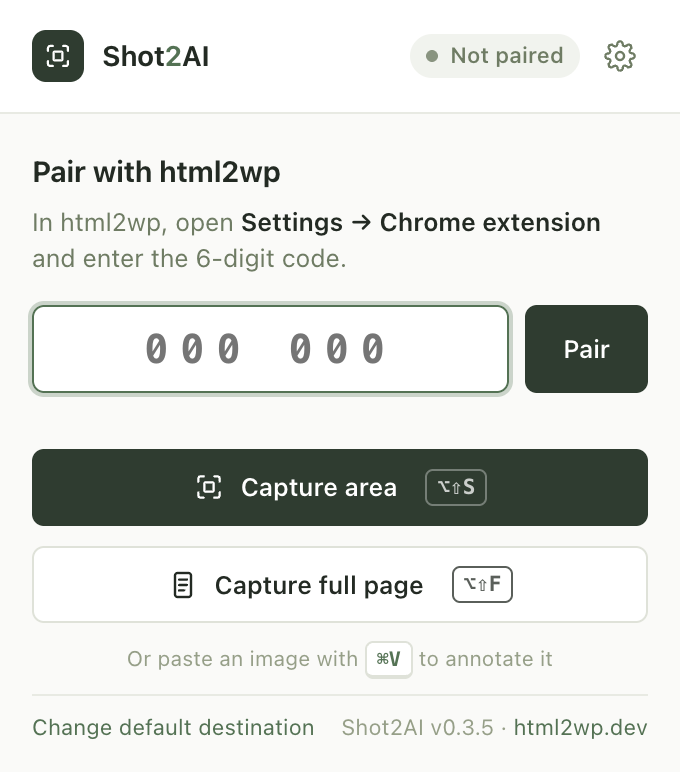
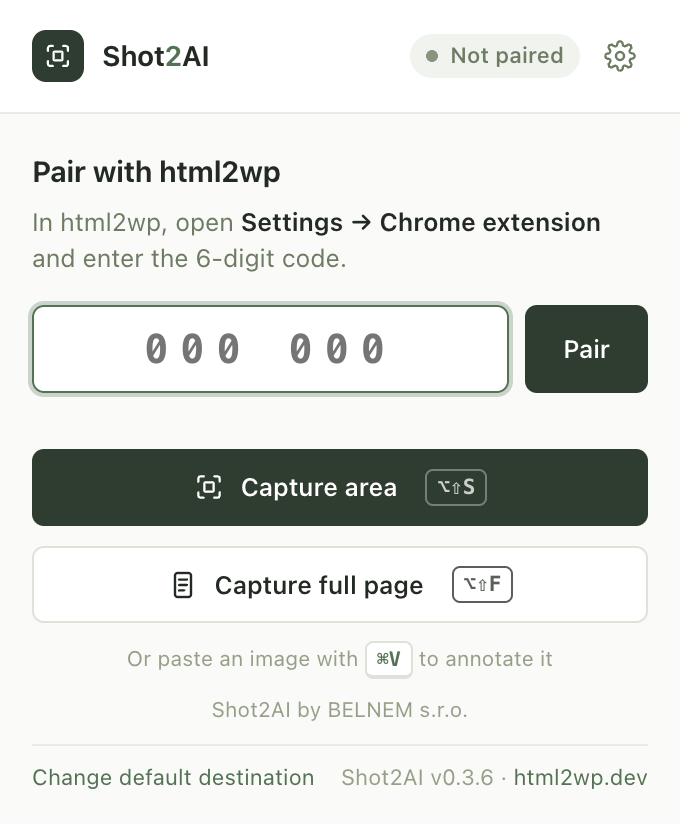
Shot2AI 0.3.6: publisher BELNEM s.r.o. (final)
Reverts c046630 (v0.3.5): the content is v0.3.4's again, with BELNEM
s.r.o. in LICENSE, PRIVACY.md, the privacy page, STORE-LISTING.md, README
and the Options and popup footers.

Claude-Session: https://claude.ai/code/session_01Xf7wTz9XZFZ1GCWzDzHaWW

diff --git a/site/shot2ai/privacy/index.html b/site/shot2ai/privacy/index.html
@@ -31,7 +31,7 @@ footer{margin-top:40px;padding-top:18px;border-top:1px solid var(--line);color:v
 <h1>Shot2AI privacy policy</h1>
 <p>Last updated: 23 September 2026</p>
 <p>This policy is published at <a href="https://html2wp.dev/shot2ai/privacy">https://html2wp.dev/shot2ai/privacy</a>.</p>
-<p>Shot2AI is a Chrome extension that captures part of a web page, lets you mark it up and sends it where you choose. This policy explains what it handles and where that goes.</p>
+<p>Shot2AI is a Chrome extension by BELNEM s.r.o. that captures part of a web page, lets you mark it up and sends it where you choose. This policy explains what it handles and where that goes.</p>
 <h2>What Shot2AI captures</h2>
 <ul><li><strong>Screenshots</strong> of the page you are on, and only when you ask for one: the toolbar button, the keyboard shortcut, the right-click menu, the floating toolbar or the preview card. This includes an area you select, the visible page, a full page, a saved region, or an image on the page.</li><li><strong>The message you type</strong> to go with a screenshot, and the prompts you save.</li><li><strong>Text you have selected</strong>, when you choose "Send selection with a screenshot".</li><li>The <strong>address and title</strong> of the page a screenshot comes from. They are used to label the screenshot and to name saved files.</li></ul>
 <p>Shot2AI reads nothing else from the pages you visit.</p>
@@ -51,9 +51,9 @@ footer{margin-top:40px;padding-top:18px;border-top:1px solid var(--line);color:v
 <p>The use of information received from Chrome APIs will adhere to the Chrome Web Store User Data Policy, including the Limited Use requirements. Shot2AI uses the data it handles only to provide its single purpose: capturing, annotating and sending screenshots where you choose. It does not transfer that data to third parties except to the destination you choose, does not use it for advertising, and does not let people read it except as needed for that purpose, for security, or to comply with law.</p>
 <h2>Trademarks</h2>
 <p>ChatGPT is a trademark of OpenAI. Claude is a trademark of Anthropic. Shot2AI is an independent product and is not affiliated with, endorsed by or sponsored by OpenAI or Anthropic.</p>
-<h2>Contact</h2>
-<p>Filip Dvoran, <a href="mailto:hello@html2wp.dev">hello@html2wp.dev</a></p>
-<footer>Shot2AI is a Chrome extension by Filip Dvoran · <a href="https://html2wp.dev/">html2wp.dev</a></footer>
+<h2>Who is responsible, and contact</h2>
+<p>Shot2AI is made and published by BELNEM s.r.o., Beckovska 5, Bratislava, Slovakia (IČO 53713486), which is responsible for this policy. Contact: <a href="mailto:hello@html2wp.dev">hello@html2wp.dev</a></p>
+<footer>Shot2AI is a Chrome extension by BELNEM s.r.o. · <a href="https://html2wp.dev/">html2wp.dev</a></footer>
 </main>
 </body>
 </html>

diff --git a/src/options.html b/src/options.html
@@ -117,6 +117,7 @@
 </main>
 <footer class="foot">
   <p><span id="version">Shot2AI</span> · <a id="whats-new" href="https://github.com/iOSDevSK/shot2ai/releases" target="_blank" rel="noopener">What's new</a> · <a href="https://html2wp.dev/shot2ai/privacy" target="_blank" rel="noopener">Privacy</a> · <a href="https://html2wp.dev/" target="_blank" rel="noopener">html2wp — convert any website to WordPress</a></p>
+  <p id="publisher" class="disclaimer">Shot2AI is made by BELNEM s.r.o., Beckovska 5, Bratislava, Slovakia · hello@html2wp.dev</p>
   <p id="disclaimer" class="disclaimer">ChatGPT is a trademark of OpenAI. Claude is a trademark of Anthropic. Shot2AI is an independent product and is not affiliated with, endorsed by or sponsored by OpenAI or Anthropic.</p>
 </footer>
 <script type="module" src="options.js"></script>

diff --git a/src/popup.html b/src/popup.html
@@ -50,6 +50,7 @@
     <button id="show-stack" class="button wide" hidden></button>
     <p id="capture-error" class="notice err" role="alert" hidden></p>
     <div class="hint"><span id="paste-hint"></span></div>
+    <p class="publisher">Shot2AI by BELNEM s.r.o.</p>
     <div class="links"><button id="change" class="link" type="button">Change default destination</button><span class="meta-links"><span id="version" class="version"></span> · <a href="https://html2wp.dev/" target="_blank" rel="noopener">html2wp.dev</a></span></div>
   </footer>
 </main>

diff --git a/src/popup.css b/src/popup.css
@@ -32,3 +32,4 @@ body{width:340px;background:var(--canvas)}
 .version{color:var(--faint)}
 .popup-foot .button .key{margin-left:6px;padding:1px 5px;border-radius:4px;font:600 10.5px/1.4 var(--mono);opacity:.75;border:1px solid currentColor}
 .popup-foot .button.primary .key{border-color:rgba(255,255,255,.45)}
+.publisher{margin:0;text-align:center;font-size:10.5px;color:var(--faint)}

diff --git a/scripts/privacy-page.py b/scripts/privacy-page.py
@@ -65,7 +65,7 @@ footer{margin-top:40px;padding-top:18px;border-top:1px solid var(--line);color:v
 <main>
 <div class="brand"><svg viewBox="0 0 32 32" aria-hidden="true"><rect width="32" height="32" rx="7" fill="#16964c"/><path d="M8 13V9.5A1.5 1.5 0 0 1 9.5 8H13M19 8h3.5A1.5 1.5 0 0 1 24 9.5V13M24 19v3.5a1.5 1.5 0 0 1-1.5 1.5H19M13 24H9.5A1.5 1.5 0 0 1 8 22.5V19" fill="none" stroke="#fff" stroke-width="2.6" stroke-linecap="round"/><rect x="13" y="13" width="6" height="6" rx="1.2" fill="#c8f578"/></svg>Shot2AI</div>
 {body}
-<footer>Shot2AI is a Chrome extension by Filip Dvoran · <a href="https://html2wp.dev/">html2wp.dev</a></footer>
+<footer>Shot2AI is a Chrome extension by BELNEM s.r.o. · <a href="https://html2wp.dev/">html2wp.dev</a></footer>
 </main>
 </body>
 </html>

diff --git a/PRIVACY.md b/PRIVACY.md
@@ -4,7 +4,7 @@ Last updated: 23 September 2026
 
 This policy is published at https://html2wp.dev/shot2ai/privacy.
 
-Shot2AI is a Chrome extension that captures part of a web page, lets you mark it up and sends it where you choose. This policy explains what it handles and where that goes.
+Shot2AI is a Chrome extension by BELNEM s.r.o. that captures part of a web page, lets you mark it up and sends it where you choose. This policy explains what it handles and where that goes.
 
 ## What Shot2AI captures
 
@@ -55,6 +55,6 @@ The use of information received from Chrome APIs will adhere to the Chrome Web S
 
 ChatGPT is a trademark of OpenAI. Claude is a trademark of Anthropic. Shot2AI is an independent product and is not affiliated with, endorsed by or sponsored by OpenAI or Anthropic.
 
-## Contact
+## Who is responsible, and contact
 
-Filip Dvoran, hello@html2wp.dev
+Shot2AI is made and published by BELNEM s.r.o., Beckovska 5, Bratislava, Slovakia (IČO 53713486), which is responsible for this policy. Contact: hello@html2wp.dev

diff --git a/README.md b/README.md
@@ -173,7 +173,7 @@ The popup footer, the editor's header, the right-click menu and **Options** show
 
 ## Legal
 
-- `LICENSE`: proprietary, all rights reserved.
+- `LICENSE`: proprietary, all rights reserved, © 2026 BELNEM s.r.o. Shot2AI is a product of BELNEM s.r.o., Beckovska 5, Bratislava, Slovakia (IČO 53713486).
 - `THIRD-PARTY-NOTICES.md`: better-shot (BSD 3-Clause), the only third-party code.
 - `PRIVACY.md`: the privacy policy, published at https://html2wp.dev/shot2ai/privacy (the page is `site/shot2ai/privacy/index.html`). Options → Privacy summarises it, links to it, and has **Clear all captures and settings**. Contact: hello@html2wp.dev.
 - `STORE-LISTING.md`: the Chrome Web Store listing, the single-purpose statement and the permission justifications.

diff --git a/STORE-LISTING.md b/STORE-LISTING.md
@@ -1,5 +1,9 @@
 # Chrome Web Store listing: Shot2AI
 
+## Developer / publisher
+
+BELNEM s.r.o., Beckovska 5, Bratislava, Slovakia (IČO 53713486), hello@html2wp.dev
+
 ## Name
 
 Shot2AI — Screenshot, Annotate & Send to AI
